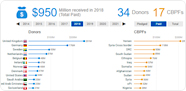
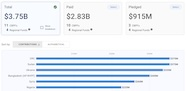
New contributions thumbnail

diff --git a/fasttrack/src/components/Explore.tsx b/fasttrack/src/components/Explore.tsx
@@ -283,6 +283,7 @@ function Explore() {
 										elevation={0}
 										sx={{
 											width: "100%",
+											position: "relative",
 											height: 74,
 											display: "flex",
 											flexDirection: "row",
@@ -311,6 +312,37 @@ function Explore() {
 												flexShrink: 0,
 											}}
 										>
+											{card.title ===
+												"Contributions Dashboard" && (
+												<Chip
+													label="New"
+													size="small"
+													sx={{
+														position: "absolute",
+														top: "9%",
+														left: "2%",
+														fontFamily:
+															"Montserrat",
+														fontWeight: 900,
+														fontSize: "0.65rem",
+														backgroundColor:
+															"#f02a2a",
+														color: "#fff",
+														letterSpacing: "0.05em",
+														textTransform:
+															"uppercase",
+														zIndex: 10,
+														p: 0.5,
+														"& .MuiChip-label": {
+															paddingTop: "0px",
+															paddingBottom:
+																"0px",
+															paddingLeft: "2px",
+															paddingRight: "2px",
+														},
+													}}
+												/>
+											)}
 											<CardMedia
 												component="img"
 												image={card.image}
